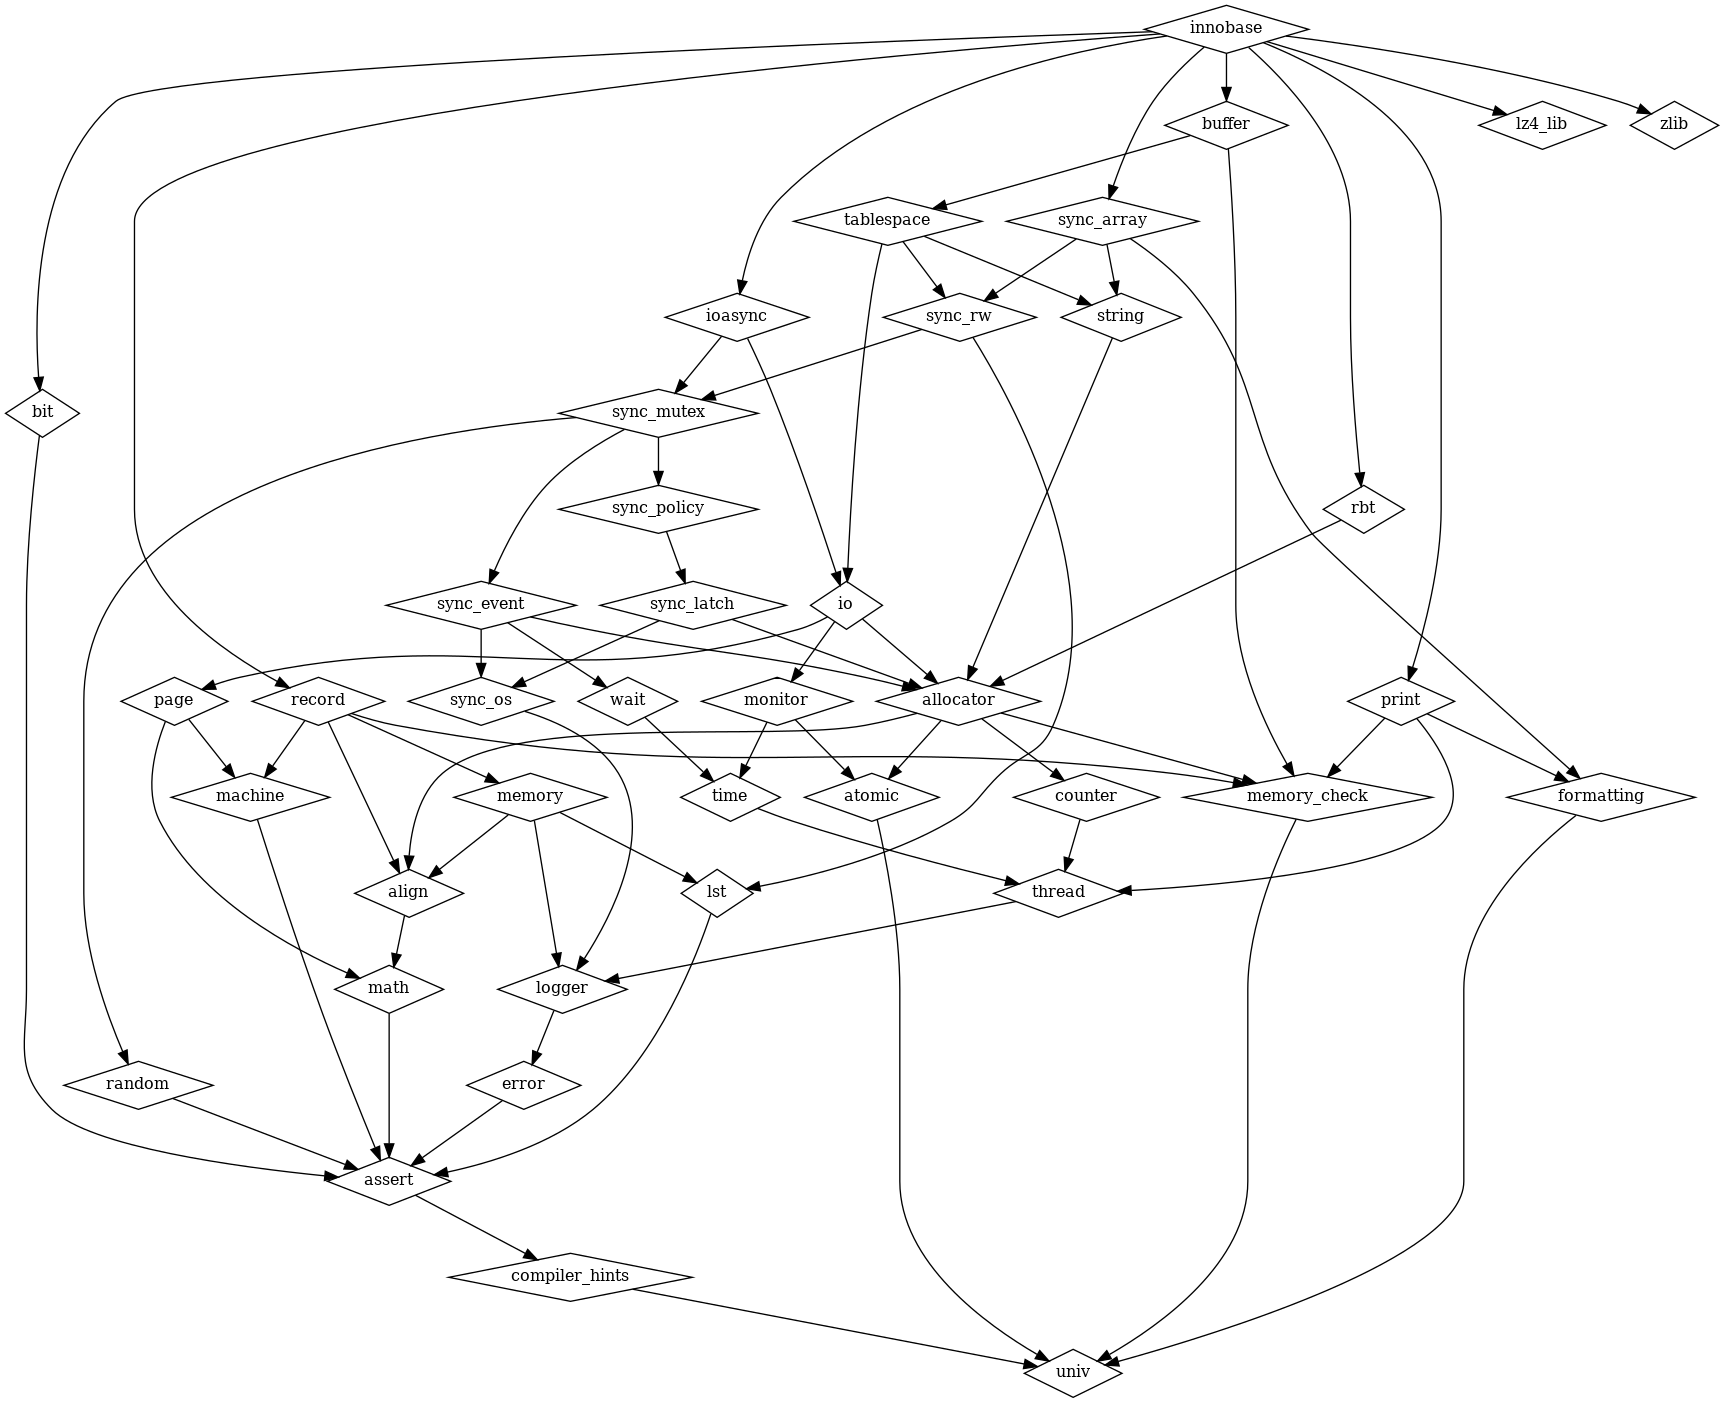
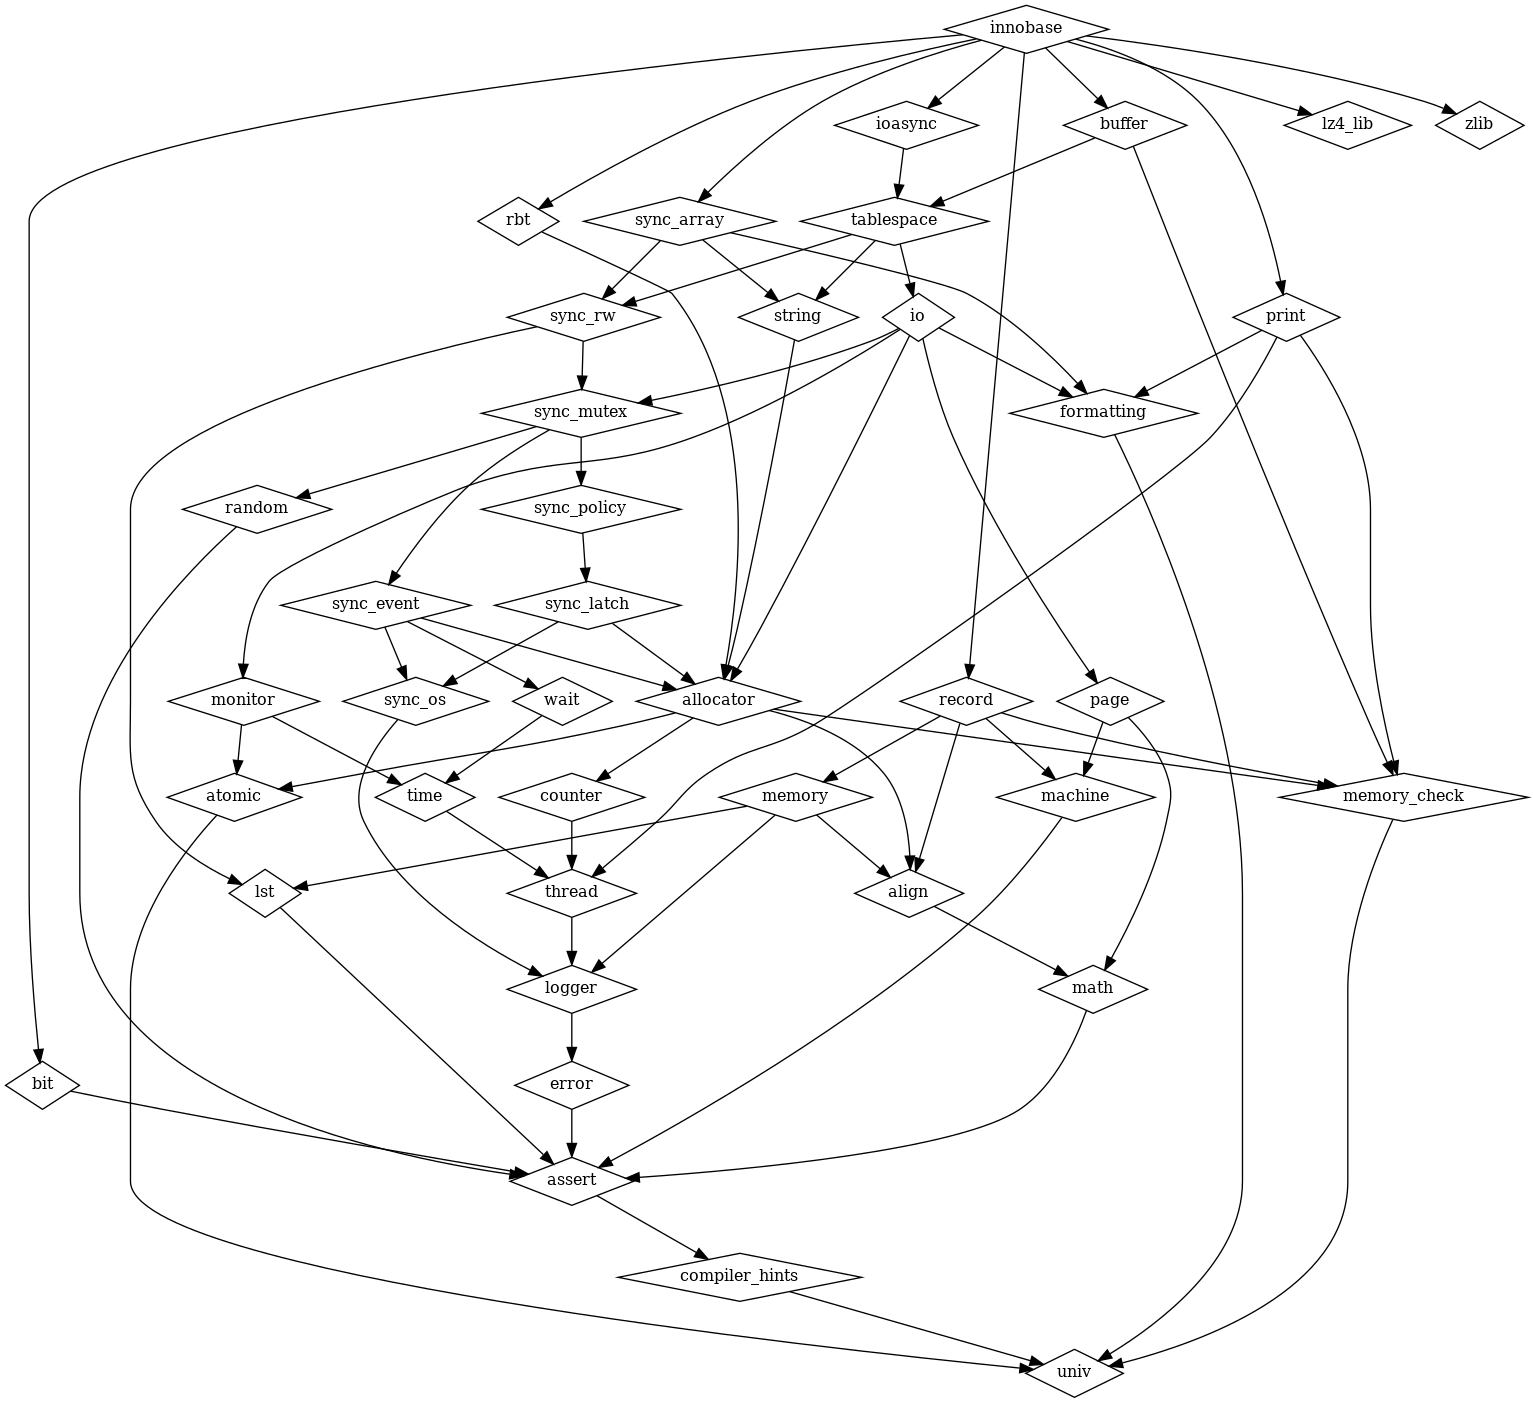
Simplify header files inclusion in io library

diff --git a/storage/innobase/include/os0file.h b/storage/innobase/include/os0file.h
@@ -166,20 +166,7 @@ Foundation, Inc., 51 Franklin St, Fifth Floor, Boston, MA 02110-1301  USA
 #include <innodb/io/os_file_read_no_error_handling.h>
 #include <innodb/io/os_file_close_no_error_handling.h>
 #include <innodb/io/os_file_read_string.h>
-#include <innodb/ioasync/pfs_os_aio_func.h>
-#include <innodb/ioasync/os_aio_handler.h>
-#include <innodb/ioasync/os_aio_init.h>
-#include <innodb/ioasync/os_aio_free.h>
-#include <innodb/ioasync/os_aio_func.h>
-#include <innodb/ioasync/os_aio_wake_all_threads_at_shutdown.h>
-#include <innodb/ioasync/os_aio_wait_until_no_pending_writes.h>
-#include <innodb/ioasync/os_aio_simulated_wake_handler_threads.h>
-#include <innodb/ioasync/os_aio_simulated_put_read_threads_to_sleep.h>
-#include <innodb/ioasync/os_aio_refresh_stats.h>
-#include <innodb/ioasync/os_aio_print.h>
-#include <innodb/ioasync/os_aio_all_slots_free.h>
-#include <innodb/ioasync/os_aio.h>
-#include <innodb/ioasync/os_file_set_size.h>
+
 
 
 #include "my_dbug.h"

diff --git a/storage/innobase/srv/srv0start.cc b/storage/innobase/srv/srv0start.cc
@@ -58,6 +58,11 @@ this program; if not, write to the Free Software Foundation, Inc.,
 #include <innodb/io/innodb_log_file_key.h>
 #include <innodb/io/innodb_data_file_key.h>
 #include <innodb/io/srv_is_being_started.h>
+#include <innodb/ioasync/os_aio_all_slots_free.h>
+#include <innodb/ioasync/os_file_set_size.h>
+#include <innodb/ioasync/os_aio_wake_all_threads_at_shutdown.h>
+#include <innodb/ioasync/os_aio_init.h>
+#include <innodb/ioasync/os_aio_free.h>
 
 #include <zlib.h>
 #include "btr0btr.h"

diff --git a/storage/innobase/fil/fil0fil.cc b/storage/innobase/fil/fil0fil.cc
@@ -58,8 +58,11 @@ The tablespace memory cache */
 #include <innodb/io/innodb_log_file_key.h>
 #include <innodb/io/innodb_data_file_key.h>
 #include <innodb/io/innodb_temp_file_key.h>
-
-
+#include <innodb/ioasync/os_aio_simulated_wake_handler_threads.h>
+#include <innodb/ioasync/os_file_set_size.h>
+#include <innodb/ioasync/os_aio_func.h>
+#include <innodb/ioasync/os_aio.h>
+#include <innodb/ioasync/os_aio_handler.h>
 
 #include "os0file.h"
 #include "btr0btr.h"

diff --git a/storage/innobase/btr/btr0cur.cc b/storage/innobase/btr/btr0cur.cc
@@ -54,6 +54,8 @@ this program; if not, write to the Free Software Foundation, Inc.,
 #include <innodb/buffer/buf_pool_is_obsolete.h>
 #include <innodb/buffer/buf_block_get_state.h>
 #include <innodb/buffer/buf_block_buf_fix_inc.h>
+#include <innodb/ioasync/os_aio_wait_until_no_pending_writes.h>
+#include <innodb/ioasync/os_aio_simulated_wake_handler_threads.h>
 
 #include "buf0rea.h"
 #include "btr0cur.h"

diff --git a/storage/innobase/buf/buf0rea.cc b/storage/innobase/buf/buf0rea.cc
@@ -39,6 +39,8 @@ this program; if not, write to the Free Software Foundation, Inc.,
 #include <innodb/buffer/buf_page_get_state.h>
 #include <innodb/buffer/buf_pool_t.h>
 #include <innodb/buffer/buf_page_is_accessed.h>
+#include <innodb/ioasync/os_aio_simulated_wake_handler_threads.h>
+#include <innodb/ioasync/os_aio_simulated_put_read_threads_to_sleep.h>
 
 #include "buf0buf.h"
 #include "buf0dblwr.h"

diff --git a/storage/innobase/buf/buf0flu.cc b/storage/innobase/buf/buf0flu.cc
@@ -64,6 +64,8 @@ this program; if not, write to the Free Software Foundation, Inc.,
 #include <innodb/buffer/buf_page_set_state.h>
 #include <innodb/buffer/buf_pool_t.h>
 #include <innodb/time/ut_time_ms.h>
+#include <innodb/ioasync/os_aio_wait_until_no_pending_writes.h>
+#include <innodb/ioasync/os_aio_simulated_wake_handler_threads.h>
 
 #ifndef UNIV_HOTBACKUP
 #include "buf0buf.h"

diff --git a/storage/innobase/buf/buf0dump.cc b/storage/innobase/buf/buf0dump.cc
@@ -47,6 +47,8 @@ this program; if not, write to the Free Software Foundation, Inc.,
 #include <innodb/buffer/buf_page_in_file.h>
 #include <innodb/time/ut_time_ms.h>
 #include <innodb/buffer/buf_pool_t.h>
+#include <innodb/ioasync/os_aio_wait_until_no_pending_writes.h>
+#include <innodb/ioasync/os_aio_simulated_wake_handler_threads.h>
 
 #include "buf0rea.h"
 #include "buf0buf.h"

diff --git a/storage/innobase/buf/buf0lru.cc b/storage/innobase/buf/buf0lru.cc
@@ -61,6 +61,8 @@ this program; if not, write to the Free Software Foundation, Inc.,
 #include <innodb/buffer/CheckUnzipLRUAndLRUList.h>
 #include <innodb/buffer/buf_block_get_state.h>
 #include <innodb/io/os_n_fsyncs.h>
+#include <innodb/ioasync/os_aio_wait_until_no_pending_writes.h>
+#include <innodb/ioasync/os_aio_simulated_wake_handler_threads.h>
 
 #include "buf0lru.h"
 

diff --git a/storage/innobase/buf/buf0dblwr.cc b/storage/innobase/buf/buf0dblwr.cc
@@ -40,6 +40,8 @@ this program; if not, write to the Free Software Foundation, Inc.,
 #include <innodb/buffer/buf_page_get_state.h>
 #include <innodb/buffer/buf_block_get_state.h>
 #include <innodb/io/IORequestWrite.h>
+#include <innodb/ioasync/os_aio_simulated_wake_handler_threads.h>
+#include <innodb/ioasync/os_aio_wait_until_no_pending_writes.h>
 
 
 #include "buf0buf.h"

diff --git a/storage/innobase/srv/srv0srv.cc b/storage/innobase/srv/srv0srv.cc
@@ -49,6 +49,8 @@ this program; if not, write to the Free Software Foundation, Inc.,
 #include <innodb/buffer/buf_pool_stat_t.h>
 #include <innodb/buffer/buf_pool_get_n_pages.h>
 #include <innodb/io/os_n_fsyncs.h>
+#include <innodb/ioasync/os_aio_refresh_stats.h>
+#include <innodb/ioasync/os_aio_print.h>
 
 #ifndef UNIV_HOTBACKUP
 #include <mysqld.h>

diff --git a/storage/innobase/clone/clone0apply.cc b/storage/innobase/clone/clone0apply.cc
@@ -30,6 +30,7 @@ this program; if not, write to the Free Software Foundation, Inc.,
  *******************************************************/
 
 #include <innodb/io/innodb_clone_file_key.h>
+#include <innodb/ioasync/os_file_set_size.h>
 
 #include "clone0clone.h"
 #include "dict0dict.h"

diff --git a/storage/innobase/fsp/fsp0sysspace.cc b/storage/innobase/fsp/fsp0sysspace.cc
@@ -31,6 +31,8 @@ this program; if not, write to the Free Software Foundation, Inc.,
  Refactored 2013-7-26 by Kevin Lewis
  *******************************************************/
 
+#include <innodb/ioasync/os_file_set_size.h>
+
 #include <stdlib.h>
 #include <sys/types.h>
 
